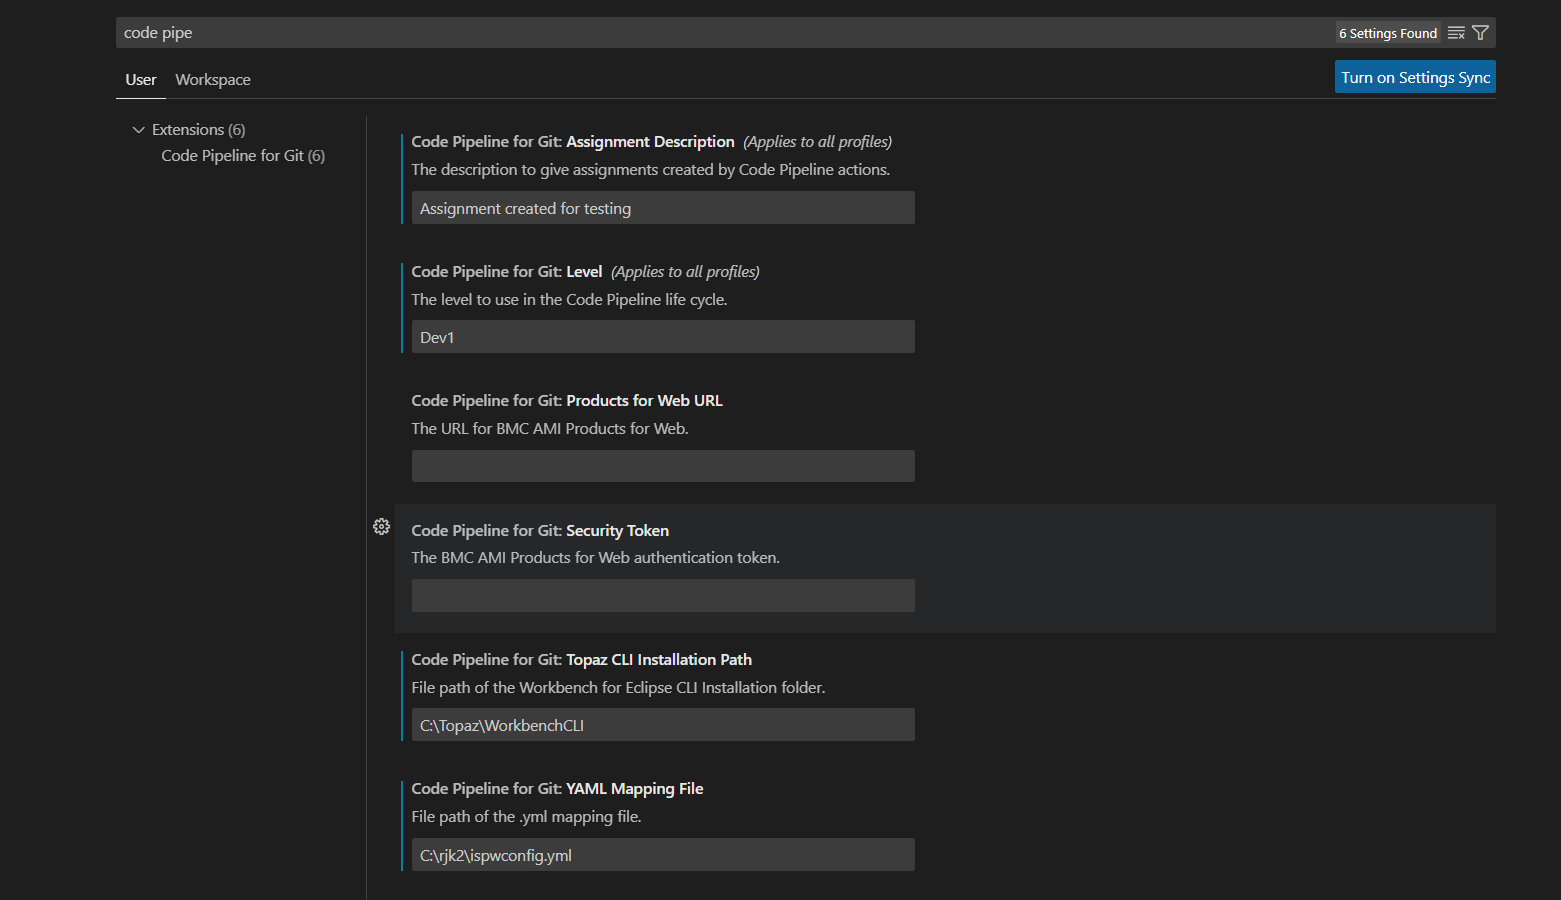
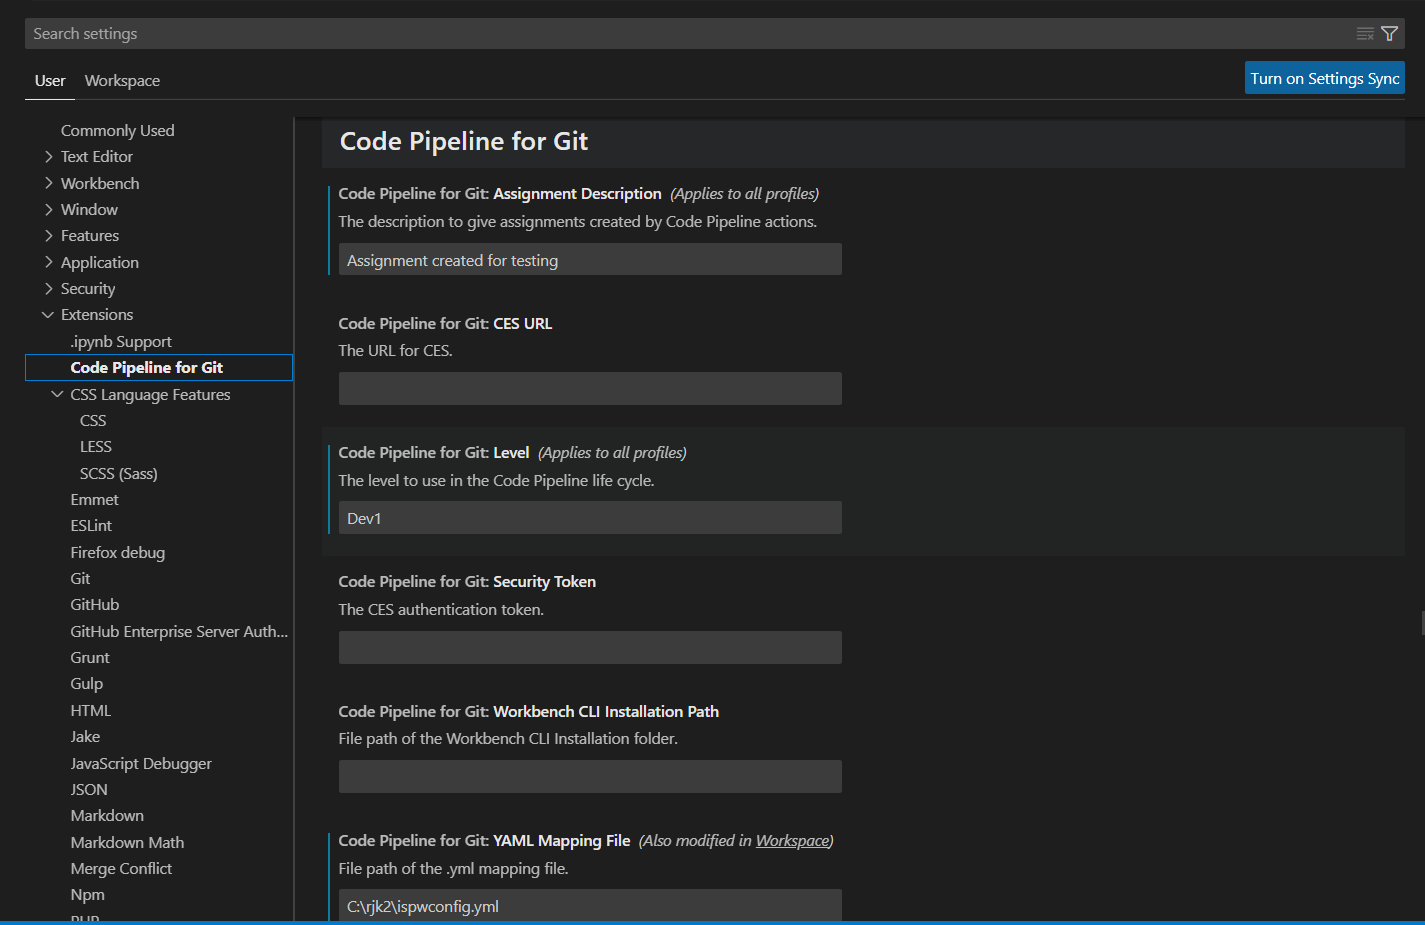
Corrected names for Topaz and CES

diff --git a/ispw/docs/index.html b/ispw/docs/index.html
@@ -65,15 +65,15 @@
 					<h2>Overview</h2>
 				</a>
 				<p>This extension enables key features from BMC AMI DevX Workbench Code Pipeline for Git product that will allow users to integrate their Code Pipeline, Git, and Visual Studio Code development processes.</p>
-				<p>With the Code Pipeline for Git Visual Studio Code extension, you are able to load source from your Git repository into Code Pipeline and also perform generate, generate with parms and build operations. The extension works by sending requests from Visual Studio Code to your Workbench for Eclipse CLI installation and to BMC AMI Products for Web which connects to Code Pipeline on the mainframe.</p>
+				<p>With the Code Pipeline for Git Visual Studio Code extension, you are able to load source from your Git repository into Code Pipeline and also perform generate, generate with parms and build operations. The extension works by sending requests from Visual Studio Code to your Workbench CLI installation and to CES which connects to Code Pipeline on the mainframe.</p>
 				<a href="#requirements" id="requirements" style="color: inherit; text-decoration: none;">
 					<h2>Requirements</h2>
 				</a>
 				<ul>
 					<li>Visual Studio Code version 1.52.0 or higher</li>
 					<li>Code Pipeline mainframe version 18.02 license and credentials</li>
-					<li>A local Workbench for Eclipse CLI installation version 20.06.01 or higher</li>
-					<li>A running instance of BMC AMI Products for Web version 20.13.02 or higher</li>
+					<li>A local Workbench CLI installation version 20.06.01 or higher</li>
+					<li>A running instance of CES version 20.13.02 or higher</li>
 					<li>A local folder containing mainframe source code</li>
 				</ul>
 				<a href="#extension-settings" id="extension-settings" style="color: inherit; text-decoration: none;">
@@ -83,10 +83,10 @@
 				<ul>
 					<li><code>Code Pipeline for Git.Assignment Description</code>: the Code Pipeline for Git assignment description or description pattern to use when a new assignment is created to load tasks. There are four pattern variables that can be used in the assignment description and they are <code>{user}</code>, <code>{branch_name}</code>, <code>{project_name}</code>, and <code>{date}</code>. The values of the variables will be set dynamically when an Code Pipeline for Git command is run.</li>
 					<li><code>Code Pipeline for Git.Level</code>: the Code Pipeline for Git level to use when loading tasks</li>
-					<li><code>Code Pipeline for Git.Workbench for Eclipse CLI Installation Path</code>: the absolute path to the local Workbench for Eclipse CLI installation</li>
+					<li><code>Code Pipeline for Git.Workbench CLI Installation Path</code>: the absolute path to the local Workbench CLI installation</li>
 					<li><code>Code Pipeline for Git.YAML Mapping File</code>: the path to the Code Pipeline configuration yaml file. This path may be relative to the workspace folder or absolute. If a relative file path is used, the yaml file must exist in the workspace. The path must contain the file name of the Code Pipeline configuration mapping file.</li>
-					<li><code>Code Pipeline for Git.Products for Web URL</code>: The URL to access running instance of BMC AMI Products for Web.</li>
-					<li><code>Code Pipeline for Git.Security Token</code>: The BMC AMI Products for Web Personal Access Token generated from its security settings.</li>
+					<li><code>Code Pipeline for Git.CES URL</code>: The URL to access running instance of CES.</li>
+					<li><code>Code Pipeline for Git.Security Token</code>: The CES Personal Access Token generated from its security settings.</li>
 				</ul>
 				<a href="#command-descriptions" id="command-descriptions" style="color: inherit; text-decoration: none;">
 					<h2>Command Descriptions</h2>
@@ -112,9 +112,9 @@
 					<h2>Complete Setup Guide</h2>
 				</a>
 				<a href="#install-the-topaz-workbench-cli" id="install-the-topaz-workbench-cli" style="color: inherit; text-decoration: none;">
-					<h4>Install the Workbench for Eclipse CLI</h4>
+					<h4>Install the Workbench CLI</h4>
 				</a>
-				<p>This extension sends requests to the Workbench for Eclipse CLI. Information about installation and use of the Workbench for Eclipse CLI can be found <a href="https://devops.api.compuware.com/apis/topaz_cli.html#workspace">here</a>.</p>
+				<p>This extension sends requests to the Workbench CLI. Information about installation and use of the Workbench CLI can be found <a href="https://devops.api.compuware.com/apis/topaz_cli.html#workspace">here</a>.</p>
 				<a href="#download-mainframe-source-from-ispw" id="download-mainframe-source-from-ispw" style="color: inherit; text-decoration: none;">
 					<h4>Download mainframe source from Code Pipeline</h4>
 				</a>
@@ -138,7 +138,7 @@
 				<a href="#configure-the-settings-for-the-ispw-extension" id="configure-the-settings-for-the-ispw-extension" style="color: inherit; text-decoration: none;">
 					<h4>Configure the settings for the Code Pipeline for Git extension</h4>
 				</a>
-				<p>See <a href="#extension-settings">Extension Settings</a> for descriptions of each of the settings. The assignment description, level, and Workbench for Eclipse CLI installation path are all stored at the User settings level. The YAML mapping file location can be configured at the Workspace settings level.</p>
+				<p>See <a href="#extension-settings">Extension Settings</a> for descriptions of each of the settings. The assignment description, level, and Workbench CLI installation path are all stored at the User settings level. The YAML mapping file location can be configured at the Workspace settings level.</p>
 				<p><img src="ispw/media/example-settings.png" alt="example settings"></p>
 				<a href="#using-ispw-commands" id="using-ispw-commands" style="color: inherit; text-decoration: none;">
 					<h4>Using Code Pipeline for Git Commands</h4>

diff --git a/ispw/src/utils/Constants.ts b/ispw/src/utils/Constants.ts
@@ -9,9 +9,9 @@
 export abstract class Constants {
     static readonly SETTING_KEY_ASSIGN_DESC: string = 'Code Pipeline for Git.Assignment Description';
     static readonly SETTING_KEY_LOAD_LEVEL: string = 'Code Pipeline for Git.Level';
-    static readonly SETTING_KEY_CLI_LOC: string = 'Code Pipeline for Git.Topaz CLI Installation Path';
+    static readonly SETTING_KEY_CLI_LOC: string = 'Code Pipeline for Git.Workbench CLI Installation Path';
     static readonly SETTING_KEY_YAML_LOC: string = 'Code Pipeline for Git.YAML Mapping File';
-    static readonly SETTING_KEY_CES_URL: string = 'Code Pipeline for Git.Products for Web URL';
+    static readonly SETTING_KEY_CES_URL: string = 'Code Pipeline for Git.CES URL';
     static readonly SETTING_KEY_CES_TOKEN: string = 'Code Pipeline for Git.Security Token';
 
     static readonly CMD_BUILD_EXPLORER : string = 'ISPW.buildExplorer';

diff --git a/ispw/src/utils/SettingsUtils.ts b/ispw/src/utils/SettingsUtils.ts
@@ -41,11 +41,11 @@ export namespace SettingsUtils {
                 [
                     { 
                         label: 'Find...', 
-                        description: 'Browse your file system to locate the Topaz CLI installation folder' 
+                        description: 'Browse your file system to locate the Workbench CLI installation folder' 
                     },
                 ],
                 {
-                    placeHolder: 'Select Topaz CLI Installation Path'
+                    placeHolder: 'Select Workbench CLI Installation Path'
                 }).then(async selection => {
                     if (!selection) {
                         return;

diff --git a/ispw/README.md b/ispw/README.md
@@ -4,14 +4,14 @@
 
 This extension enables key features from BMC AMI DevX Workbench Code Pipeline for Git product that will allow users to integrate their Code Pipeline, Git, and Visual Studio Code development processes.
 
-With the Code Pipeline for Git Visual Studio Code extension, you can load source from your Git repository into Code Pipeline and also perform generate, generate with parms and build operations. The extension works by sending requests from Visual Studio Code to your Workbench for Eclipse CLI installation and to BMC AMI Products for Web which connects to Code Pipeline on the mainframe.
+With the Code Pipeline for Git Visual Studio Code extension, you can load source from your Git repository into Code Pipeline and also perform generate, generate with parms and build operations. The extension works by sending requests from Visual Studio Code to your Workbench CLI installation and to CES which connects to Code Pipeline on the mainframe.
 
 ## Requirements
 
 - Visual Studio Code version 1.52.0 or higher
 - Code Pipeline mainframe version 18.02 license and credentials
-- A local Workbench for Eclipse CLI installation version 20.06.01 or higher
-- A running instance of BMC AMI Products for Web version 20.13.02 or higher
+- A local Workbench CLI installation version 20.06.01 or higher
+- A running instance of Common Enterprise Services version 20.13.02 or higher
 - A local folder containing mainframe source code
 
 ## Extension Settings
@@ -20,10 +20,10 @@ This extension contributes the following settings:
 
 - `Code Pipeline for Git.Assignment Description`: the Code Pipeline for Git assignment description or description pattern to use when a new assignment is created to load tasks. There are four pattern variables that can be used in the assignment description and they are `{user}`, `{branch_name}`, `{project_name}`, and `{date}`. The values of the variables will be set dynamically when a Code Pipeline for Git command is run.
 - `Code Pipeline for Git.Level`: the Code Pipeline for Git level to use when loading tasks
-- `Code Pipeline for Git.Workbench for Eclipse CLI Installation Path`: the absolute path to the local Workbench for Eclipse CLI installation
+- `Code Pipeline for Git.Workbench CLI Installation Path`: the absolute path to the local Workbench CLI installation
 - `Code Pipeline for Git.YAML Mapping File`: the path to the Code Pipeline for Git configuration yaml file. This path may be relative to the workspace folder or absolute. If a relative file path is used, the yaml file must exist in the workspace. The path must contain the file name of the Code Pipeline configuration mapping file.
-- `Code Pipeline for Git.Products for Web URL`: The URL to access running instance of BMC AMI Products for Web.
-- `Code Pipeline for Git.Security Token`: The BMC AMI Products for Web Personal Access Token generated from its security settings. 
+- `Code Pipeline for Git.CES URL`: The URL to access running instance of CES.
+- `Code Pipeline for Git.Security Token`: The CES Personal Access Token generated from its security settings. 
 ## Command Descriptions
 
 ![Code Pipeline for Git commands](media/ISPW-commands.png)
@@ -50,9 +50,9 @@ Executes a Code Pipeline CLI command to load the selected files into Code Pipeli
 
 ## Complete Setup Guide
 
-#### Install the Workbench for Eclipse CLI
+#### Install the Workbench CLI
 
-This extension sends requests to the Workbench for Eclipse CLI. Information about installation and use of the Workbench for Eclipse CLI can be found [here](https://devops.api.compuware.com/apis/topaz_cli.html#workspace).
+This extension sends requests to the Workbench CLI. Information about installation and use of the Workbench CLI can be found [here](https://devops.api.compuware.com/apis/topaz_cli.html#workspace).
 
 #### Download mainframe source from Code Pipeline
 
@@ -76,13 +76,13 @@ It is advised to set the root folder of your Git repository to be the primary wo
 
 #### Configure the settings for the Code Pipeline for Git extension
 
-See [Extension Settings](#extension-settings) for descriptions of each of the settings. The assignment description, level, and Topaz CLI installation path are all stored at the User settings level. The YAML mapping file location can be configured at the Workspace settings level.
+See [Extension Settings](#extension-settings) for descriptions of each of the settings. The assignment description, level, and Workbench CLI installation path are all stored at the User settings level. The YAML mapping file location can be configured at the Workspace settings level.
 
 ![example settings](media/example-settings.png)
 
-#### Install BMC AMI Products for Web
+#### Install CES
 
-This extension makes REST API calls to Code Pipeline. Information about installation and use of the BMC AMI Products for Web can be found [here](https://devops.api.bmc.com/apis/rest_api_ispw.html).
+This extension makes REST API calls to Code Pipeline. Information about installation and use of the CES can be found [here](https://devops.api.bmc.com/apis/rest_api_ispw.html).
 
 #### Using Code Pipeline for Git Commands
 

diff --git a/README.md b/README.md
@@ -18,7 +18,7 @@ Before attempting to run tests, update the settings file at `%APPDATA%\Code\User
 ``` json
     "Code Pipeline for Git.Assignment Description": "${user}-${project_name}",
     "Code Pipeline for Git.Level": "DEV1",
-    "Code Pipeline for Git.Workbench for Eclipse CLI Installation Path": "your cli path",
+    "Code Pipeline for Git.Workbench CLI Installation Path": "your cli path",
 ```
 
 Then, add a file to your ispw/src/test folder called `credentials.json` and add the following:

diff --git a/ispw/src/test/README.md b/ispw/src/test/README.md
@@ -20,7 +20,7 @@ The file should contain the credentials to be used to log on to ISPW when runnin
 > {
 >     "ISPW.Assignment Description": "{user}-{project_name}",
 >     "ISPW.Level": "DEV1",
->     "ISPW.Topaz CLI Installation Path": "/path/to/your/ispw/cli",
+>     "ISPW.Workbench CLI Installation Path": "/path/to/your/ispw/cli",
 > }
 > ```
 
